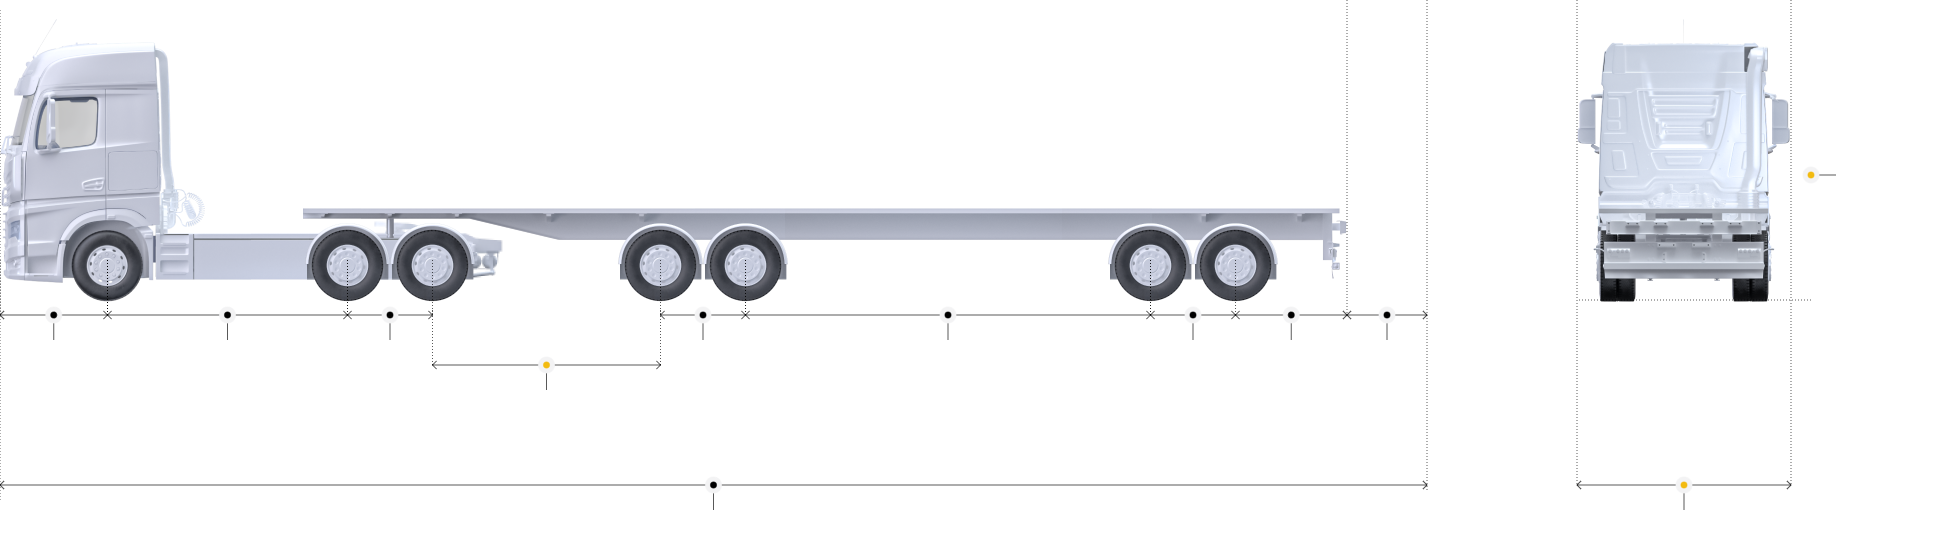
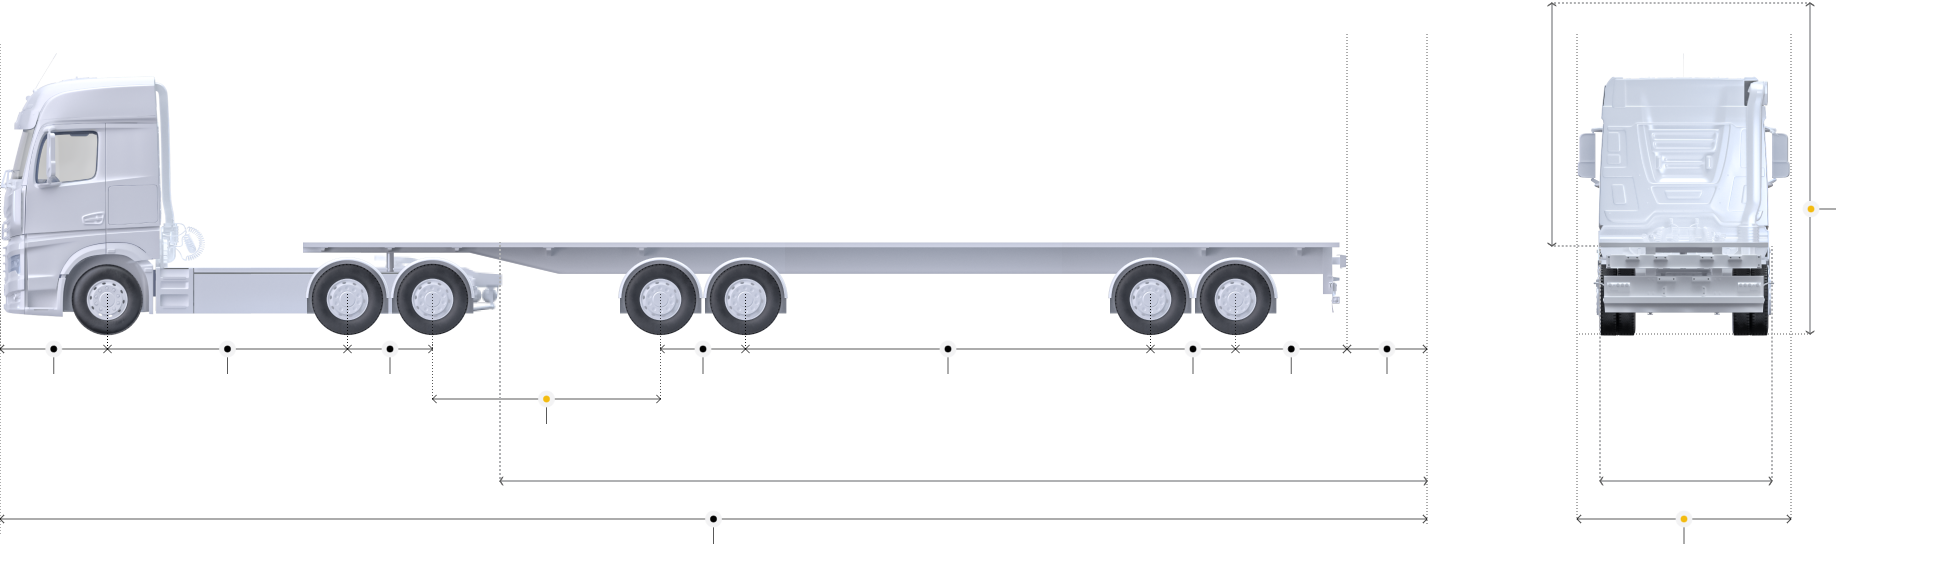
urm update 5 removed

diff --git a/urm/css/custom.sass b/urm/css/custom.sass
@@ -268,35 +268,14 @@ body
         display: flex
         align-items: center
         justify-content: center
-        &_lines
-          // border-left: 2px dotted #b0b1b3
-          // border-bottom: 2px solid #b0b1b3
-          height: 240px
-          width: 100%
+        &_size
           position: absolute
-          left: -2px
-          top: 100%
-          // &::before,
-          // &::after
-          //   font-size: 20px
-          //   position: absolute
-          //   bottom: -14px
-          //   font-weight: 500
-          //   color: #b0b1b3
-          // &::before
-          //   content: "\2039"
-          //   left: -3px
-          // &::after
-          //   content: "\203a"
-          //   right: -4px
-          &_size
-            position: absolute
-            top: 100%
-            left: 0
-            right: 0
-            text-align: center
-            padding: 3px
-            color: #7e7e7e
+          top: calc(100% + 240px)
+          left: 0
+          right: 0
+          text-align: center
+          padding: 3px
+          color: #7e7e7e
       &_back
         width: 170px
         height: 240px

diff --git a/urm/detail.html b/urm/detail.html
@@ -383,7 +383,7 @@
             <div class="urm_truck">
               <div class="urm_truck_title">Информация о транспортных средствах</div>
               <div class="urm_truck_wrapper">
-                <img src="img/truck2.png" alt="" class="urm_truck_img">
+                <img src="img/truck.png" alt="" class="urm_truck_img">
                 <div class="urm_truck_axle">
                   <div class="urm_truck_axle_item">
                     <div class="urm_truck_axle_title">Ось 1</div>
@@ -504,8 +504,7 @@
                 <div class="urm_truck_cargo">
                   <div class="urm_truck_cargo_side">
                     <span class="urm_truck_cargo_text">Груз 1</span>
-                    <div class="urm_truck_cargo_side_lines">
-                      <span class="urm_truck_cargo_side_lines_size">22 (м)</span>
+                    <span class="urm_truck_cargo_side_size">22 (м)</span>
                     </div>
                   </div>
                   <div class="urm_truck_cargo_back">

diff --git a/urm/css/custom.css b/urm/css/custom.css
@@ -319,16 +319,9 @@ body {
   align-items: center;
   justify-content: center;
 }
-.urm_truck_cargo_side_lines {
-  height: 240px;
-  width: 100%;
+.urm_truck_cargo_side_size {
   position: absolute;
-  left: -2px;
-  top: 100%;
-}
-.urm_truck_cargo_side_lines_size {
-  position: absolute;
-  top: 100%;
+  top: calc(100% + 240px);
   left: 0;
   right: 0;
   text-align: center;
